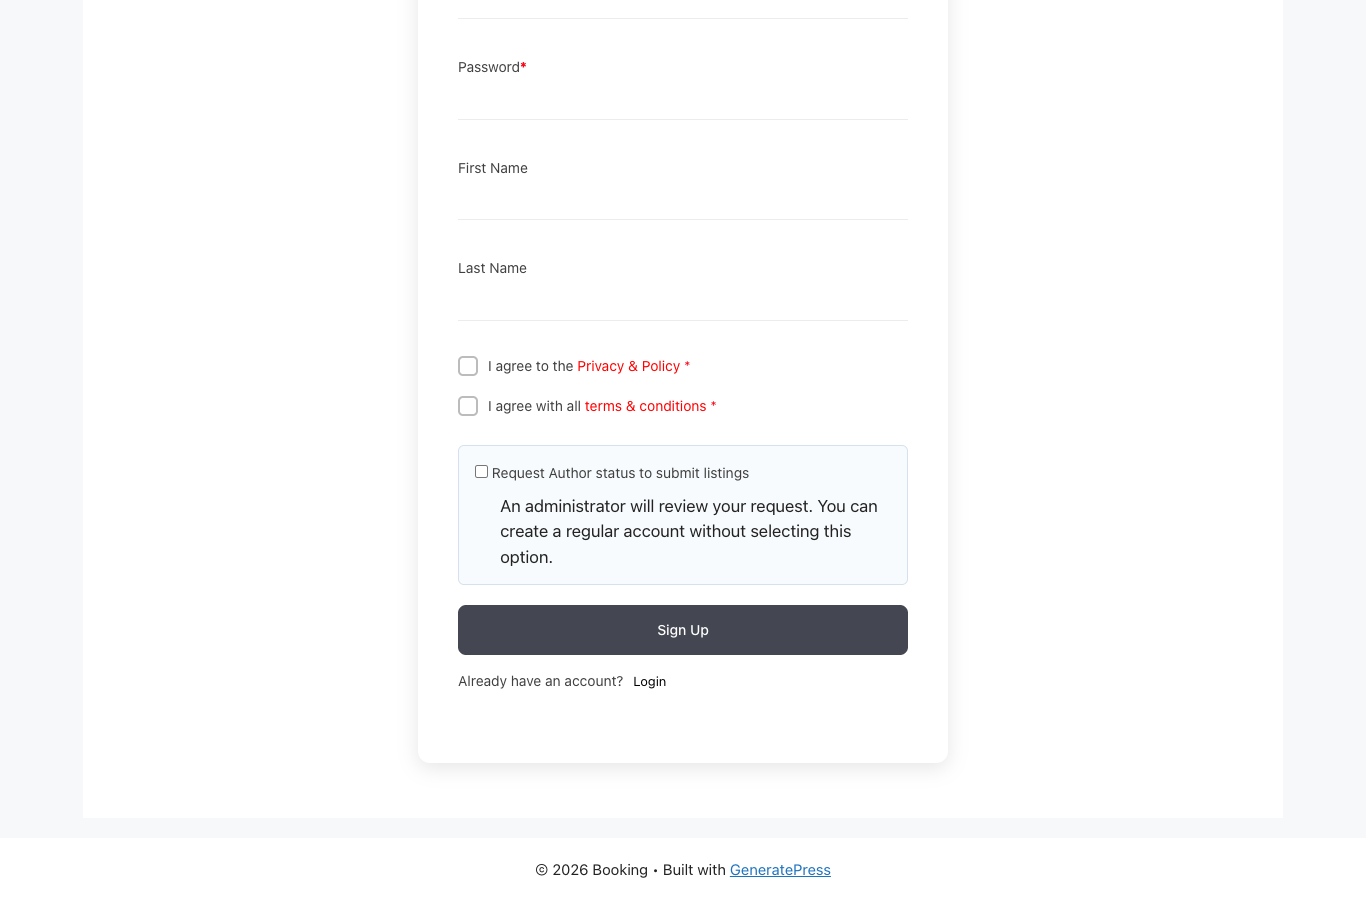
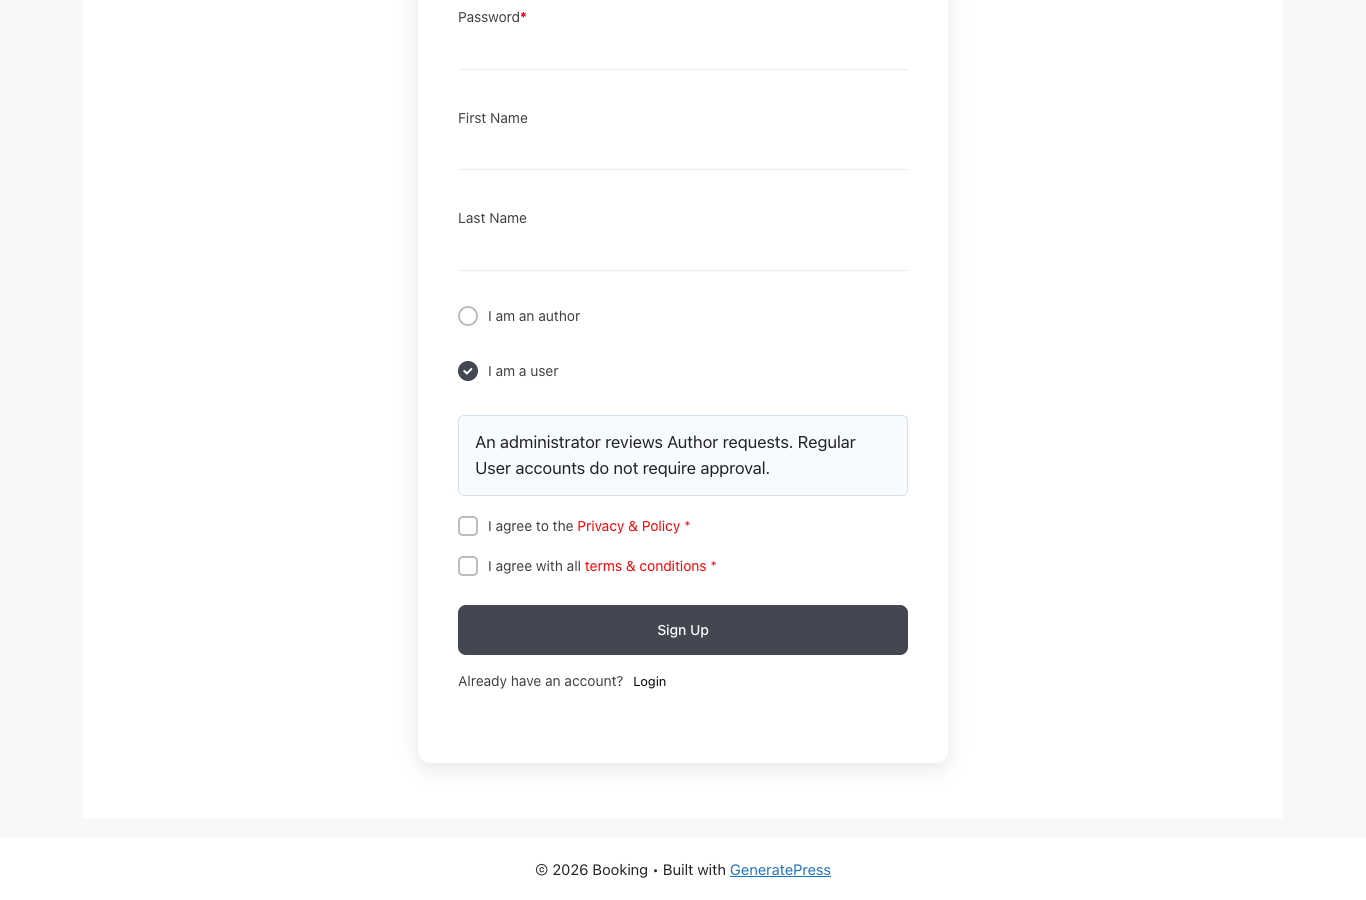
Restore Directorist registration type choices

diff --git a/assets/author-approval.js b/assets/author-approval.js
@@ -21,15 +21,24 @@
 
 	forms.forEach(function (form) {
 		form.classList.add('daa-registration-form');
+		var author = form.querySelector('input[name="user_type"][value="author"]');
 		var regular = form.querySelector('input[name="user_type"][value="general"]');
-		if (regular) {
-			regular.checked = true;
-		} else if (form.querySelector('input[name="user_type"][value="author"]')) {
-			var general = document.createElement('input');
-			general.type = 'hidden';
-			general.name = 'user_type';
-			general.value = 'general';
-			form.appendChild(general);
+		var request = form.querySelector('input[name="daa_request_author"]');
+		if (author || regular) {
+			form.classList.add('daa-registration-native-type');
+			if (!form.querySelector('input[name="user_type"]:checked')) {
+				(regular || author).checked = true;
+			}
+			var syncRequest = function () { request.checked = !!author && author.checked; };
+			form.querySelectorAll('input[name="user_type"]').forEach(function (radio) {
+				radio.addEventListener('change', syncRequest);
+			});
+			syncRequest();
+			var option = request.closest('.daa-author-option');
+			var lastType = (regular || author).closest('.atbd_user_type_area');
+			if (option && lastType) {
+				lastType.insertAdjacentElement('afterend', option);
+			}
 		}
 		form.addEventListener('submit', function () { remember(form); });
 		form.querySelectorAll('.directorist-authentication__form__btn').forEach(function (button) {

diff --git a/assets/author-approval.css b/assets/author-approval.css
@@ -16,8 +16,12 @@
 	margin: 8px 0 0 25px;
 }
 
-.daa-registration-form .atbd_user_type_area {
+.daa-registration-native-type .daa-author-option label {
 	display: none !important;
+}
+
+.daa-registration-native-type .daa-author-option p {
+	margin: 0;
 }
 
 .daa-dashboard-notice,

diff --git a/includes/class-daa-settings.php b/includes/class-daa-settings.php
@@ -62,7 +62,7 @@ final class DAA_Settings {
 			'admin_notifications' => __( 'Email administrator about new requests', 'directorist-author-approval' ),
 			'user_notifications'  => __( 'Email applicants about requests and decisions', 'directorist-author-approval' ),
 			'registration_label'   => __( 'Registration checkbox label', 'directorist-author-approval' ),
-			'registration_help'    => __( 'Registration checkbox help text', 'directorist-author-approval' ),
+			'registration_help'    => __( 'Registration choice help text', 'directorist-author-approval' ),
 			'confirmation_message' => __( 'Registration confirmation message', 'directorist-author-approval' ),
 			'verification_message' => __( 'Email verification message', 'directorist-author-approval' ),
 			'admin_subject'       => __( 'Administrator email subject', 'directorist-author-approval' ),

diff --git a/directorist-author-approval.php b/directorist-author-approval.php
@@ -2,7 +2,7 @@
 /**
  * Plugin Name: Directorist Author Registration Approval
  * Description: Adds administrator approval to Directorist Author requests and listing submission.
- * Version: 1.0.1
+ * Version: 1.0.3
  * Requires at least: 6.5
  * Requires PHP: 7.4
  * Requires Plugins: directorist
@@ -13,7 +13,7 @@
 defined( 'ABSPATH' ) || exit;
 
 define( 'DAA_PLUGIN_FILE', __FILE__ );
-define( 'DAA_PLUGIN_VERSION', '1.0.1' );
+define( 'DAA_PLUGIN_VERSION', '1.0.3' );
 
 require_once __DIR__ . '/includes/class-daa-plugin.php';
 require_once __DIR__ . '/includes/class-daa-admin.php';

diff --git a/includes/class-daa-plugin.php b/includes/class-daa-plugin.php
@@ -63,7 +63,7 @@ final class DAA_Plugin {
 			'dashboard_rejected'  => 'Your Author account request was not approved. Please contact the website administrator for further assistance.',
 			'reapply_label'       => 'Request Author status again',
 			'registration_label'  => 'Request Author status to submit listings',
-			'registration_help'   => 'An administrator will review your request. You can create a regular account without selecting this option.',
+			'registration_help'   => 'An administrator reviews Author requests. Regular User accounts do not require approval.',
 		);
 	}
 

diff --git a/DOCUMENTATION.md b/DOCUMENTATION.md
@@ -18,7 +18,7 @@ The screenshots below were taken on the Booking Local site. A temporary example 
 1. Install and activate Directorist.
 2. Upload the extension ZIP in **Plugins → Add Plugin → Upload Plugin**, install, and activate it.
 3. Go to **Directorist → Settings → Extensions → Author Approval**. Make sure **Enable Author registration approval** is on and select **Save changes** if you changed anything.
-4. Open the Directorist registration page in a signed-out browser window. Confirm the request checkbox appears.
+4. Open the Directorist registration page in a signed-out browser window. Confirm the **I am an author / I am a user** choices or the request checkbox appear.
 5. Review **Users → Author Approvals** for requests.
 
 WordPress 6.5+, PHP 7.4+, and Directorist are required. The extension was tested with Directorist 8.10.7. If Directorist is inactive, this plugin displays an admin warning and does not load its workflow hooks.
@@ -29,18 +29,18 @@ WordPress 6.5+, PHP 7.4+, and Directorist are required. The extension was tested
 
 ```text
 Directorist registration
-  ├─ Checkbox clear → Regular account
-  └─ Request Author status → Pending request
+  ├─ I am a user (or checkbox clear) → Regular account
+  └─ I am an author (or checkbox selected) → Pending request
                               ├─ Approve → Directorist Author
                               └─ Reject → Regular account
                                             └─ Request again, if enabled → Pending
 ```
 
-The checkbox is shown on Directorist registration forms. Selecting Directorist's native Author choice also creates a pending request. An existing regular user can request access through Directorist's **Become an Author** dashboard action. Neither path grants Author access before approval.
+When Directorist displays its user type selector, choose **I am an author** to request approval or **I am a user** for a regular account. The extension shows its request checkbox on Directorist forms that do not display that selector. An existing regular user can request access through Directorist's **Become an Author** dashboard action. Neither Author request path grants access before approval.
 
-![Request Author status on the registration form](docs/images/registration-request.png)
+![Author and User registration choices](docs/images/registration-request.png)
 
-If Directorist email verification is enabled, account creation and the approval request complete after the applicant verifies the address. A verification message can be customized in Extensions settings. The Pending queue remains empty for an applicant who has not completed verification.
+If Directorist email verification is enabled, account creation and the approval request complete after the applicant verifies the address. A verification message can be customized in Extensions settings. The Pending queue remains empty for an applicant who has not completed verification. On this Local site, verification emails are captured in the site's **Email** tab in Local.
 
 Managed regular, pending, and rejected users cannot use Directorist listing capabilities or write listings through the front-end form, REST listing routes, or direct WordPress post insertion. Approved users receive Directorist's Author user type. Directorist's own rules for pricing plans, required fields, and moderation continue to apply. No listing is published as part of approval.
 
@@ -64,8 +64,8 @@ Open **Directorist → Settings → Extensions → Author Approval** and choose 
 | --- | --- | --- |
 | Enable Author registration approval | Shows the request option and enforces approval restrictions | On |
 | Allow rejected applicants to request again | Shows a request again button to rejected applicants | Off |
-| Registration checkbox label | Text beside the request checkbox | “Request Author status to submit listings” |
-| Registration checkbox help text | Explanation below the checkbox | Explains administrator review and regular signup |
+| Registration checkbox label | Text beside the request checkbox when no native user type selector is shown | “Request Author status to submit listings” |
+| Registration choice help text | Explanation below the native user type selector or request checkbox | Explains administrator review and regular signup |
 | Registration confirmation message | Message after a successful request | Awaiting administrator approval |
 | Email verification message | Message shown while email verification is needed | Verify email before review |
 
@@ -129,8 +129,9 @@ Turning off **Enable Author registration approval** hides the registration reque
 
 | Symptom | Check |
 | --- | --- |
-| Request checkbox is not visible | Both plugins are active, Directorist registration is enabled, the approval switch is on, and you are signed out |
-| Registration succeeded but no Pending entry appears | Confirm the checkbox was selected and any required email verification is complete |
+| Author choice or request checkbox is not visible | Both plugins are active, Directorist registration is enabled, the approval switch is on, and you are signed out |
+| Registration succeeded but no Pending entry appears | Confirm **I am an author** or the checkbox was selected and any required email verification is complete |
+| Signup says “Too many registration requests” | Directorist limits repeated requests from one IP for one hour; wait before retrying |
 | Approved user still cannot submit | Confirm Approved status; then check Directorist's listing permissions, pricing plan, payment, and required fields |
 | Rejected user has no request again button | Enable reapplication and reload their Directorist dashboard |
 | Notification email is missing | Check notification switches, the WordPress administration email, site mail transport, spam folder, and any mail log |

diff --git a/README.md b/README.md
@@ -9,7 +9,7 @@ Let people request Directorist Author status while an administrator decides who 
 | Configure approval, messages, and emails | **Directorist → Settings → Extensions → Author Approval** |
 | Approve or reject requests | **Users → Author Approvals** |
 | See an account's current status | **Users → All Users**, in the **Author Approval** column |
-| Request Author status | The Directorist registration form, or the Directorist dashboard's **Become an Author** action |
+| Request Author status | Choose **I am an author** on the Directorist registration form, or use the dashboard's **Become an Author** action |
 
 ## Requirements and installation
 
@@ -25,9 +25,9 @@ The plugin is already installed and active on this Local site. If you are using 
 
 ## How an applicant requests access
 
-On the Directorist registration form, select **Request Author status to submit listings** before signing up. Leaving the box clear creates a regular account. A request remains pending until an administrator reviews it. If Directorist requires email verification, the applicant must verify the address before the account and approval request are completed.
+On this site's Directorist registration form, choose **I am an author** to request approval or **I am a user** for a regular account. When a Directorist form does not display its user type choices, the extension shows a **Request Author status to submit listings** checkbox instead. A request remains pending until an administrator reviews it. If Directorist requires email verification, the applicant must verify the address before the account and approval request are completed. On Local, open the site's **Email** tab to find that verification message.
 
-![Author request checkbox on the registration form](docs/images/registration-request.png)
+![Author and User choices on the registration form](docs/images/registration-request.png)
 
 An existing regular user can use Directorist's **Become an Author** action on their dashboard. The request is sent for review; it does not grant Author access immediately.
 
@@ -59,7 +59,7 @@ The main switches are:
 | Email administrator about new requests | Sends a request email to the WordPress **Administration Email Address** | On |
 | Email applicants about requests and decisions | Sends pending, approved, and rejected emails | On |
 
-You can also edit the registration checkbox label and help text, confirmation and verification messages, all email subjects and bodies, the three dashboard status messages, and the request again button label. Email delivery uses the site's `wp_mail()` configuration. The switches shown in screenshots reflect this Local site's settings and may differ from the defaults.
+You can also edit the request checkbox label used when Directorist's user type selector is absent, the help text shown with the registration choice, confirmation and verification messages, all email subjects and bodies, the three dashboard status messages, and the request again button label. Email delivery uses the site's `wp_mail()` configuration. The switches shown in screenshots reflect this Local site's settings and may differ from the defaults.
 
 ![Notification and administrator email settings](docs/images/email-settings.png)
 
@@ -78,8 +78,9 @@ Existing accounts without an approval status are left as they were, including ex
 
 ## If something does not work
 
-- **The request option is missing:** Check that Directorist and this plugin are active, Directorist registration is enabled, and **Enable Author registration approval** is on. Open a Directorist registration form while signed out.
-- **A request is not in Pending:** If email verification is enabled, confirm the applicant verified their address. Also confirm they selected the request checkbox.
+- **The Author choice is missing:** Check that Directorist and this plugin are active, Directorist registration is enabled, and **Enable Author registration approval** is on. Open a Directorist registration form while signed out. The form shows either Directorist's **I am an author** choice or the extension's request checkbox.
+- **A request is not in Pending:** If email verification is enabled, confirm the applicant followed the link in the verification email. On Local, find it in the site's **Email** tab. Also confirm they chose **I am an author** or selected the request checkbox.
+- **Signup says “Too many registration requests”:** Directorist limits repeated signups from one IP for one hour. Wait for the limit to expire before retrying.
 - **An applicant cannot submit after approval:** Check the **Approved** tab and Directorist's own listing, pricing, and moderation requirements.
 - **Emails are missing:** Confirm the notification switches, WordPress administration email address, and the site's mail delivery configuration. Look in the spam folder or a mail log if available.
 - **A rejected applicant cannot request again:** Turn on **Allow rejected applicants to request again** in Extensions settings.
